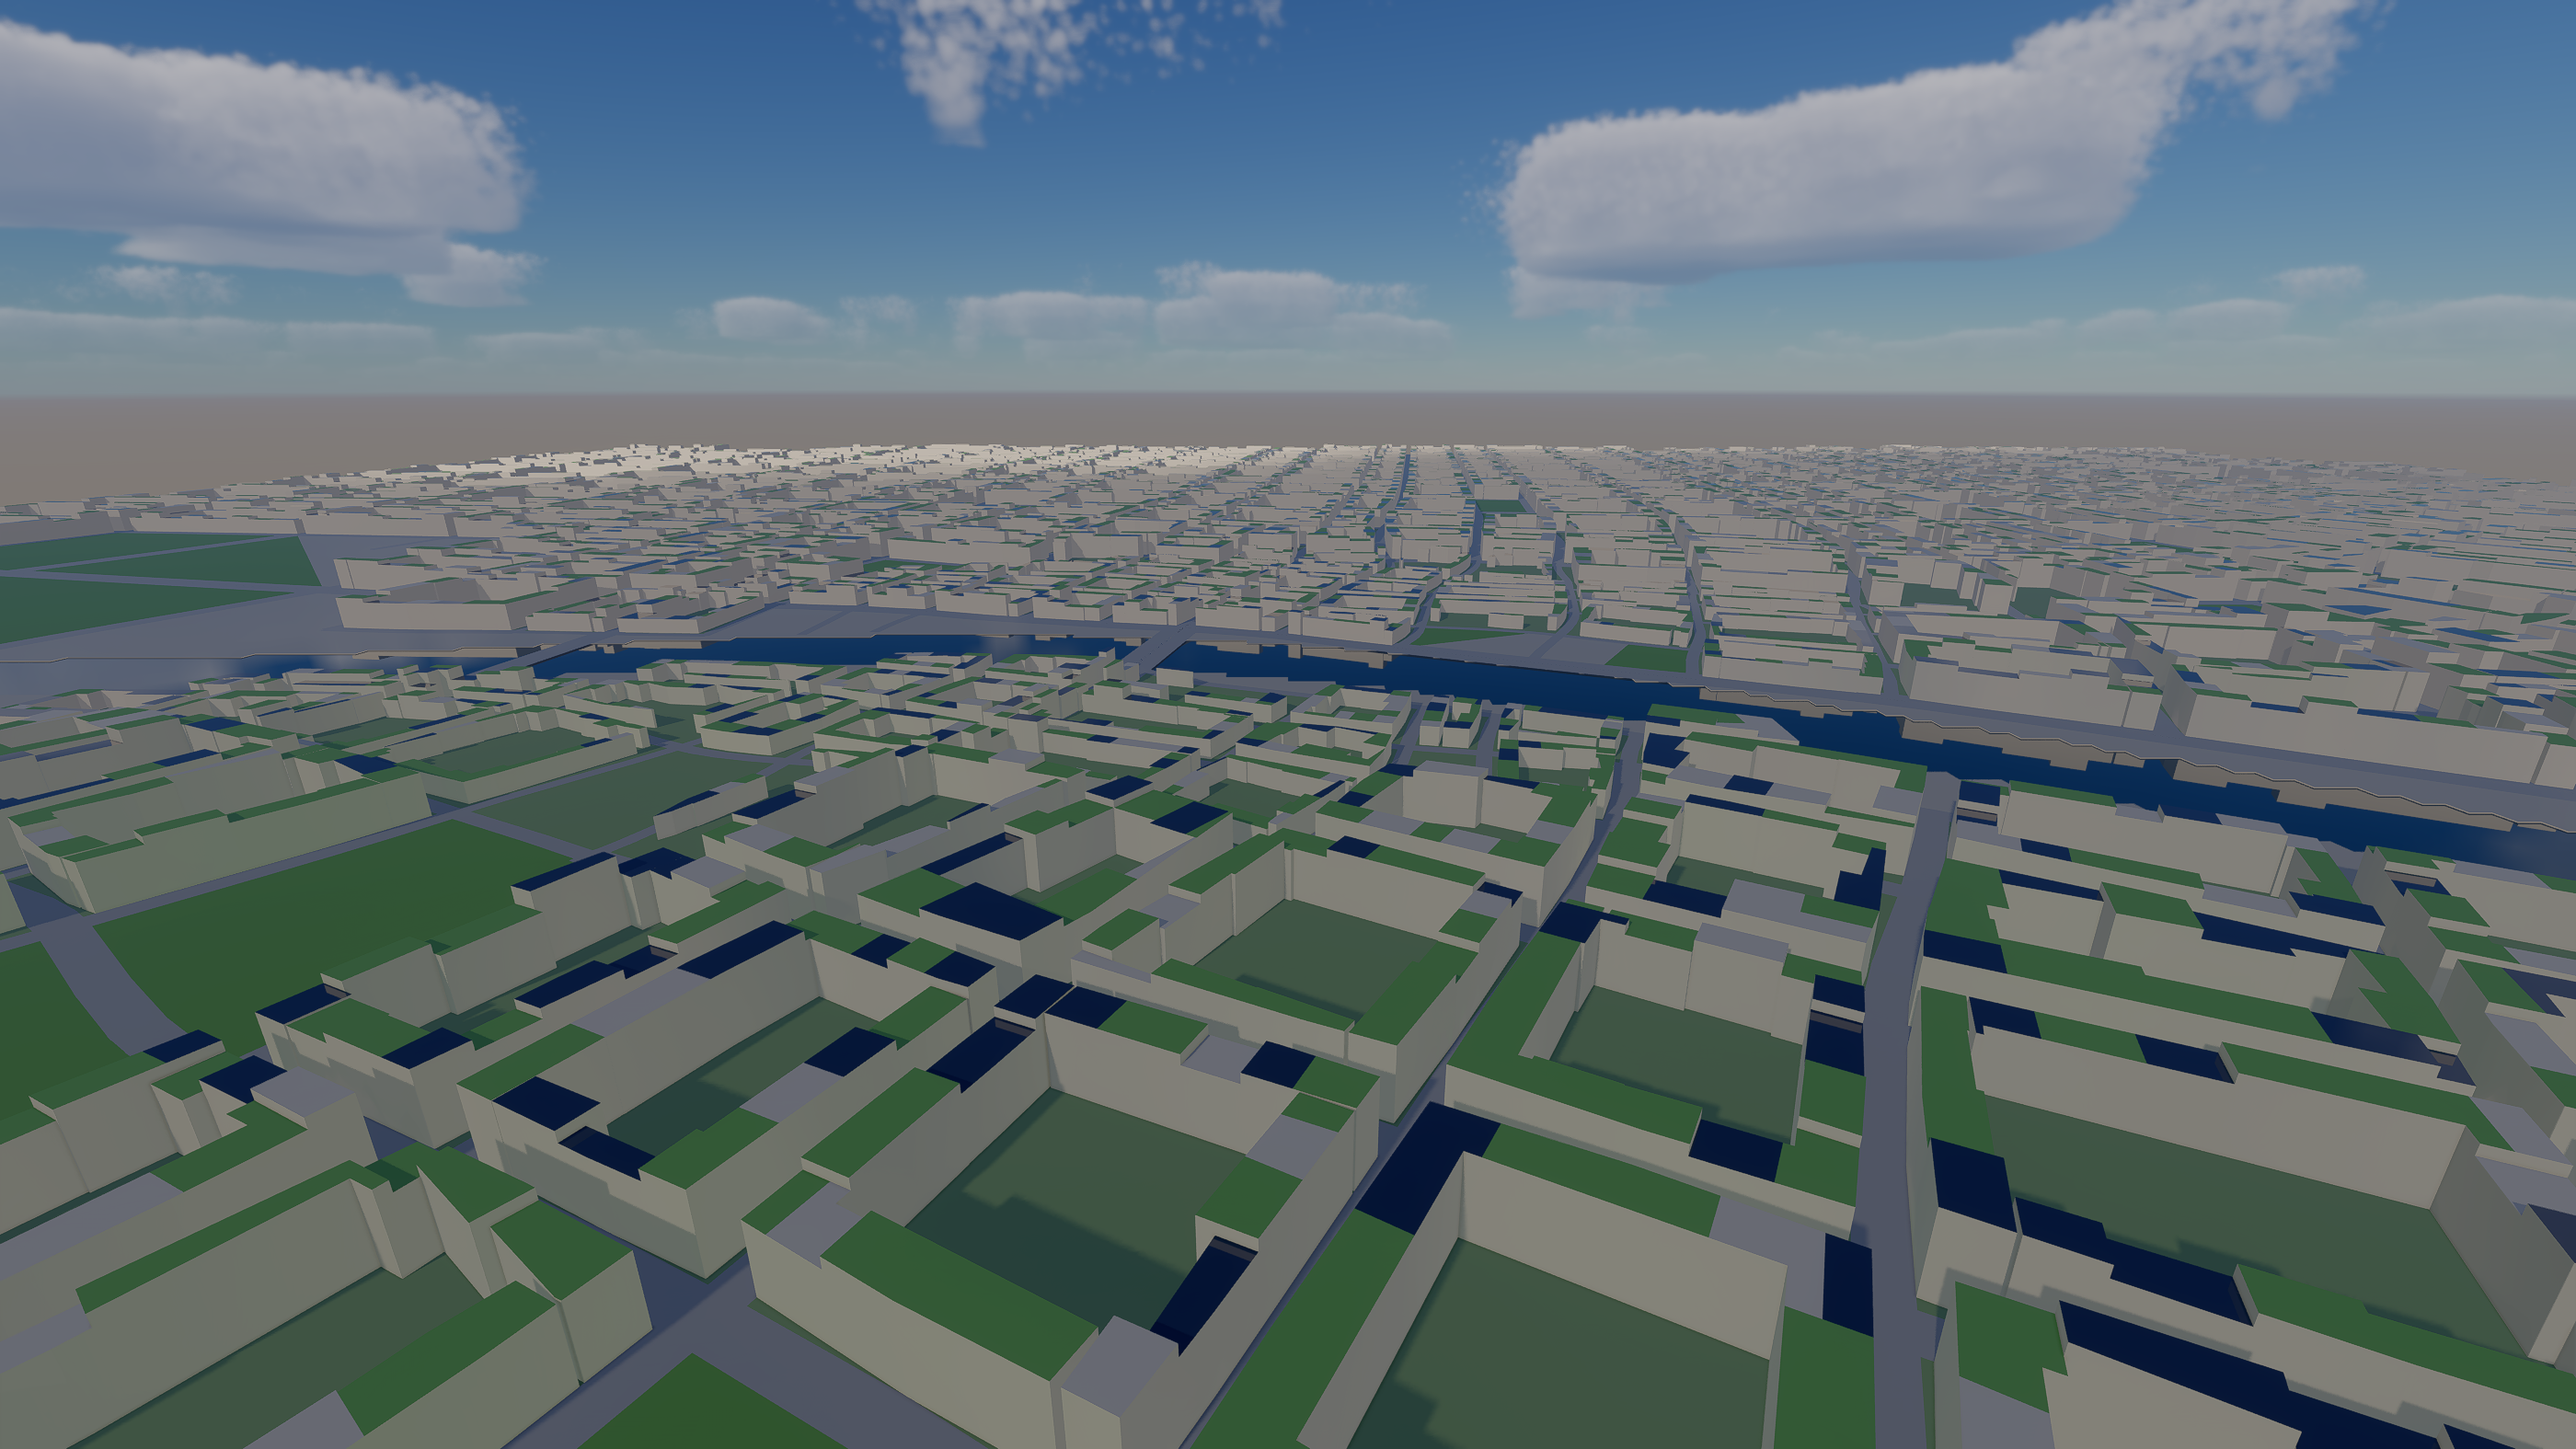
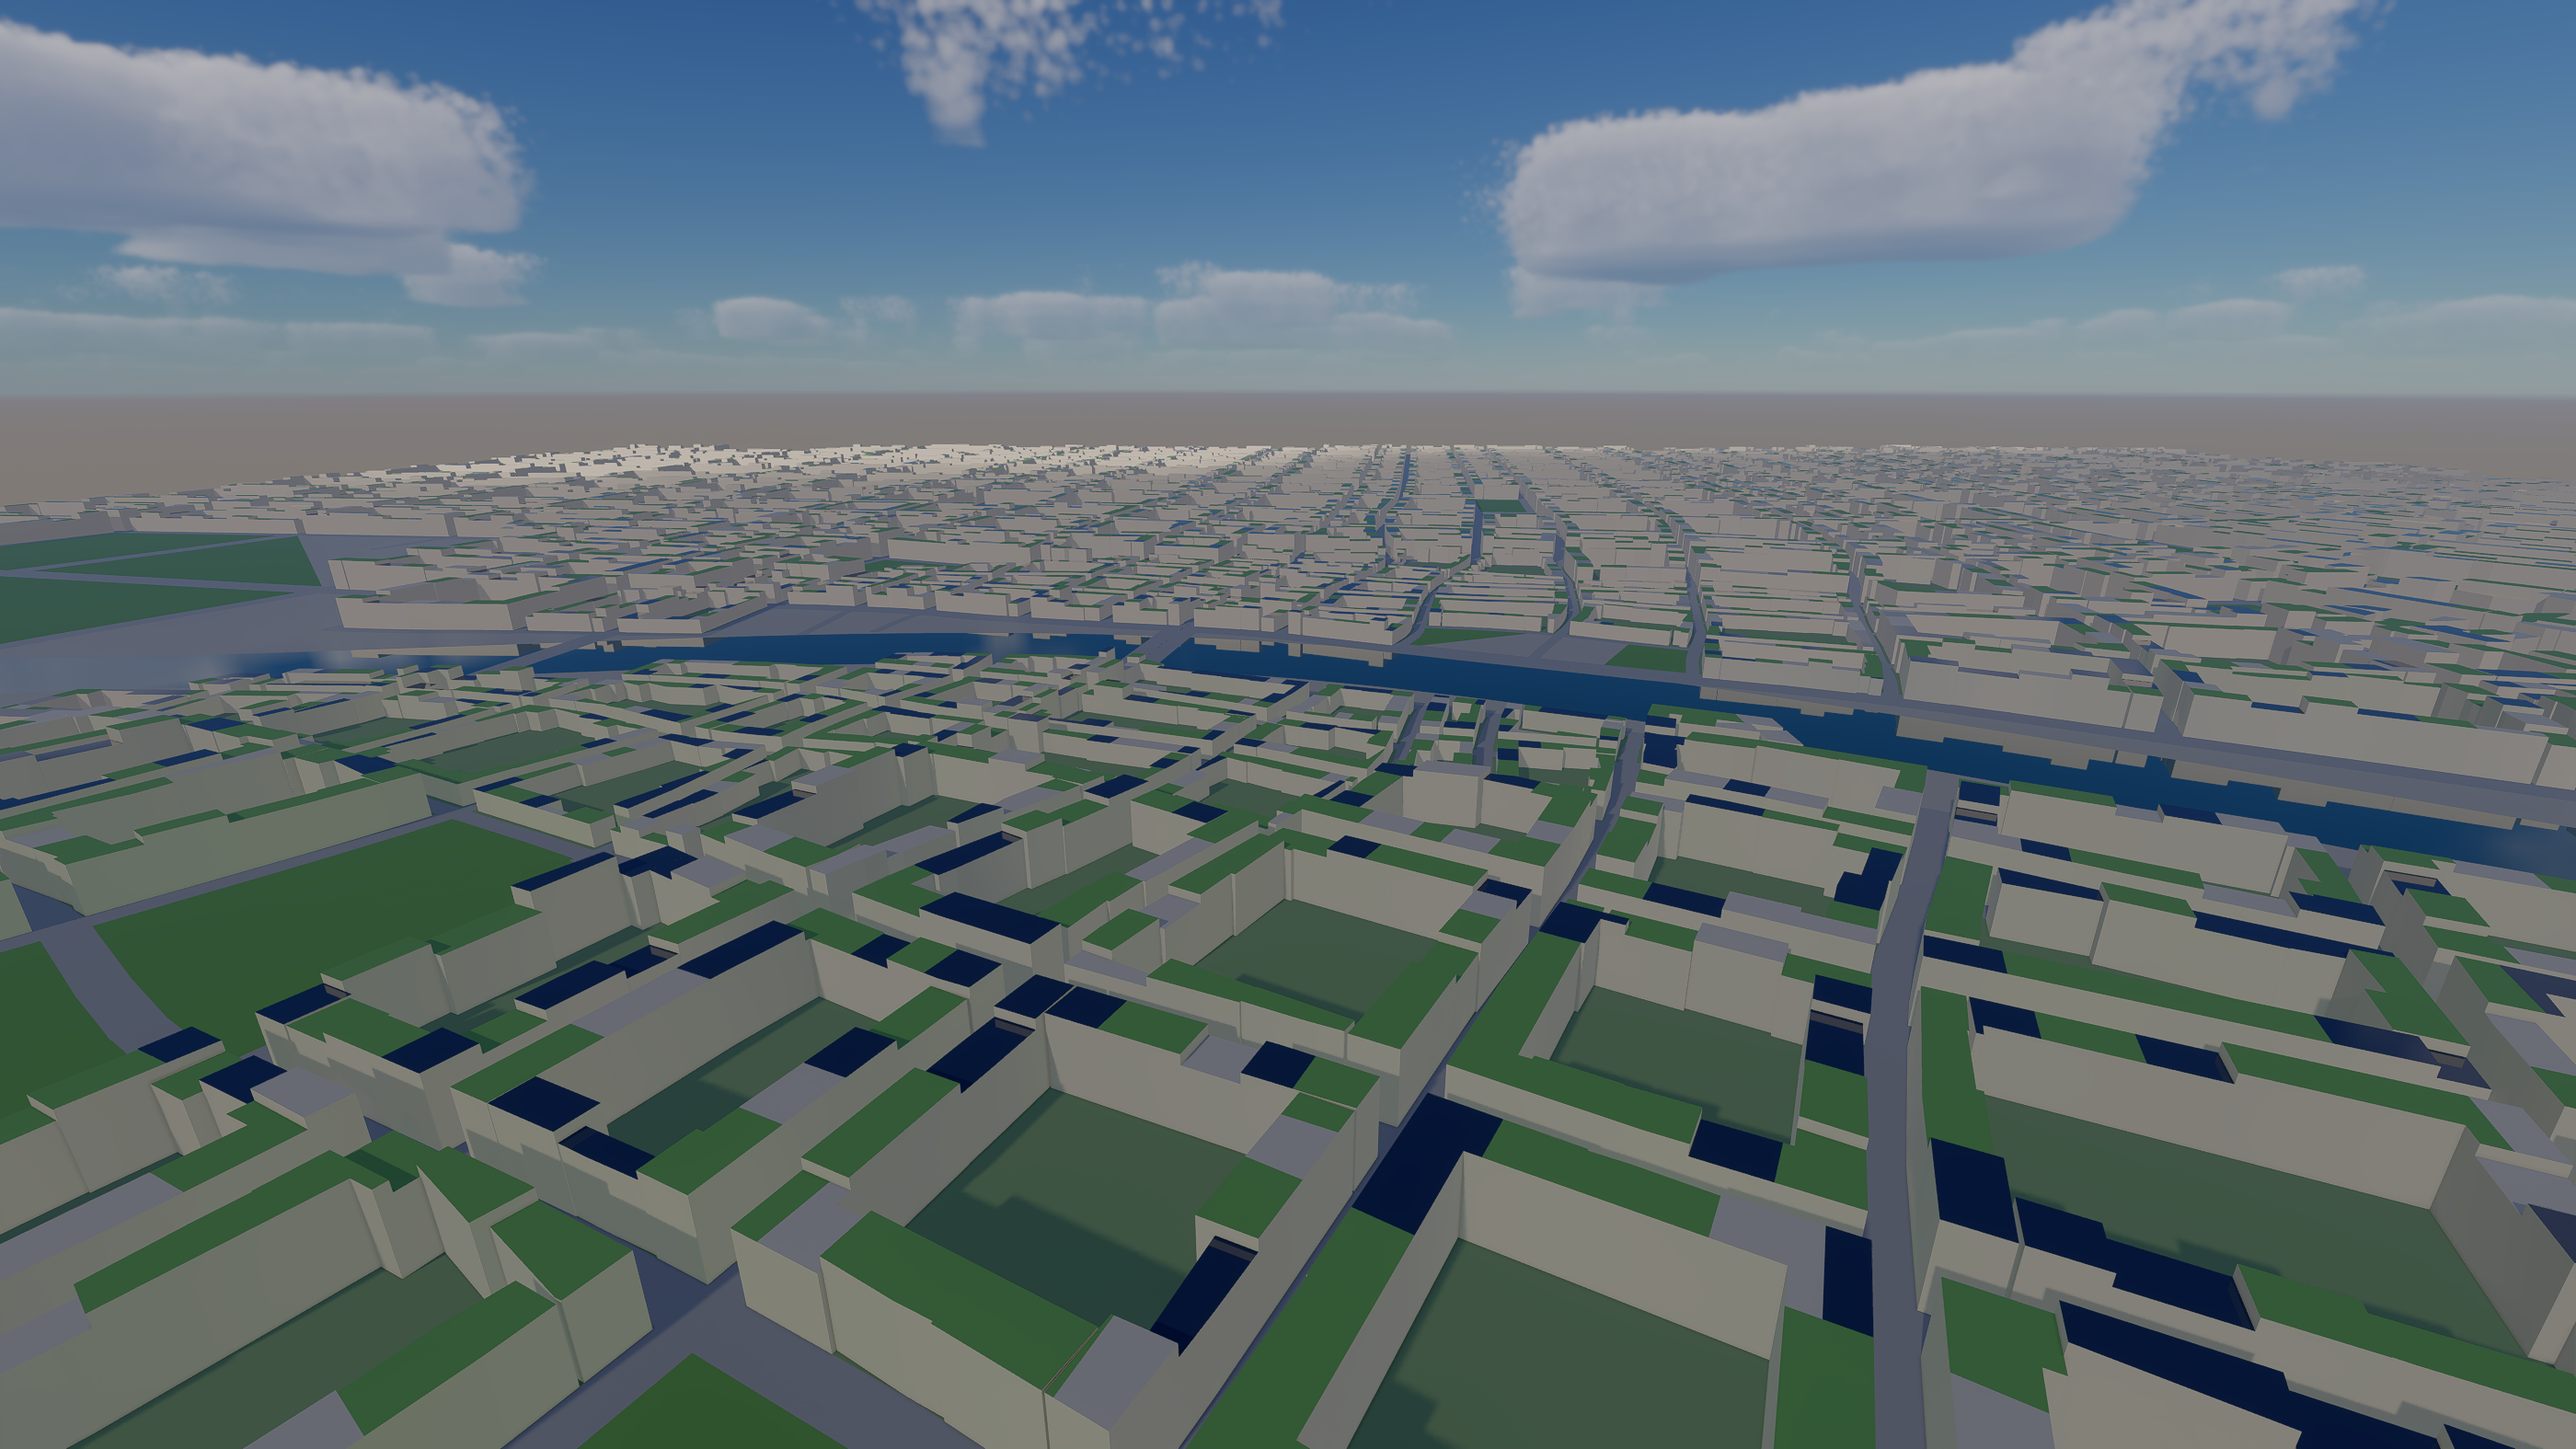
City plan in 3D: rivers as smooth strips, lighter water
The river's bed drawn from the site's 10 m cells showed a staircase along the
quays. Rivers are now strips along their centrelines over the ground (their
cells drawn as land); the sea and lagoons stay cells. The water's albedo is
raised so it no longer reads black from above. The example: 184 k triangles,
3.33 ms of GPU at 2800 x 1575.

diff --git a/demos/city-plan/src/lib.rs b/demos/city-plan/src/lib.rs
@@ -21,7 +21,7 @@ use forge_geom::MeshletMesh;
 use forge_geom::city::PropSpec;
 use forge_geom::procedural::TriMesh;
 use forge_procgen::city::mass::{Mass, Roof};
-use forge_procgen::city::{BlockUse, CityPlan, LAND, Site, geom};
+use forge_procgen::city::{BlockUse, CityPlan, LAGOON, SEA, Site, geom};
 use forge_render::MeshletScene;
 use forge_render::MeshletSceneBuilder;
 use glam::{DVec2, Mat4, Vec3};
@@ -173,6 +173,19 @@ impl PlanScenario {
             };
             tiles.flat(&block.polygon, 0.08, section, false);
         }
+        // The rivers as smooth strips over the ground, their beds drawn as land: the cells'
+        // staircase would show along the quays.
+        for river in &site.rivers {
+            let line = geom::resample(&river.centreline, 15.0);
+            let half = river.width * 0.5;
+            strip(
+                &mut tiles,
+                &offset_line(&line, half),
+                &offset_line(&line, -half),
+                0.04,
+                WATER,
+            );
+        }
         for e in &plan.roads.edges {
             ribbon(&mut tiles, &e.points, e.profile.width(), 0.16, STREET);
         }
@@ -215,10 +228,10 @@ fn ground_and_water(site: &Site, tiles: &mut Tiles) {
     for y in 0..n {
         let mut x = 0;
         while x < n {
-            let wet = water.get(x, y) != LAND;
+            let wet = is_open_water(water.get(x, y));
             let start = x;
             let tile_end = ((x / per_tile) + 1) * per_tile;
-            while x < n && x < tile_end && (water.get(x, y) != LAND) == wet {
+            while x < n && x < tile_end && is_open_water(water.get(x, y)) == wet {
                 x += 1;
             }
             let (x0, x1) = (start as f64 * s, x as f64 * s);
@@ -346,7 +359,7 @@ impl Scenario for PlanScenario {
                 ("plan paving".into(), colour([0.60, 0.57, 0.52], 16.0, 0.04)),
                 ("plan street".into(), colour([0.42, 0.41, 0.40], 14.0, 0.04)),
                 ("plan track".into(), colour([0.16, 0.16, 0.17], 60.0, 0.3)),
-                ("plan water".into(), colour([0.02, 0.06, 0.09], 900.0, 0.9)),
+                ("plan water".into(), colour([0.05, 0.12, 0.15], 900.0, 0.9)),
             ],
         );
         materials.add_rows(
@@ -434,5 +447,20 @@ impl Running for PlanRunning {
 
     fn title(&mut self) -> String {
         self.title.clone()
+    }
+}
+
+/// Whether a water code is the sea or a lagoon, drawn from the site's cells (rivers are drawn as
+/// strips).
+fn is_open_water(code: u8) -> bool {
+    code == SEA || code == LAGOON
+}
+
+/// A flat strip between two polylines of the same length, a quad between each pair of points,
+/// in the tile of each quad's first corner.
+fn strip(tiles: &mut Tiles, left: &[DVec2], right: &[DVec2], height: f64, section: u8) {
+    for i in 0..left.len().min(right.len()).saturating_sub(1) {
+        let quad = [left[i], left[i + 1], right[i + 1], right[i]];
+        tiles.flat(&quad, height, section, false);
     }
 }

diff --git a/docs/demos/city-plan.md b/docs/demos/city-plan.md
@@ -95,14 +95,15 @@ cargo run --release -p city-plan
 city-blocks' renderer (sky, clouds, ray-traced soft shadows, probes, TAA) through its scene
 interface.* `demos/city-plan` turns any plan and its masses into meshes in tiles of 250 m: the
 site's land and water as runs of cells, blocks and street ribbons, walls and roofs (green,
-solar, terrace). A private sandbox hands its own plan to `PlanScenario::new`.
+solar, terrace). The rivers are smooth strips along their centrelines; the sea and lagoons come
+from the site's cells. A private sandbox hands its own plan to `PlanScenario::new`.
 
 | | |
 |---|---|
-| Meshes / triangles | 483 / 177 k |
+| Meshes / triangles | 484 / 184 k |
 | Built and cooked | 1.3 s |
-| GPU frame at 2800 × 1575, this view | 3.43 ms (shading 0.68, the meshlet pass 0.13) |
-| p50 / p99 frame | 3.42 / 7.38 ms |
+| GPU frame at 2800 × 1575, this view | 3.33 ms |
+| p50 / p99 frame | 3.33 / 6.68 ms |
 
 ## Next (#245–#247)
 
